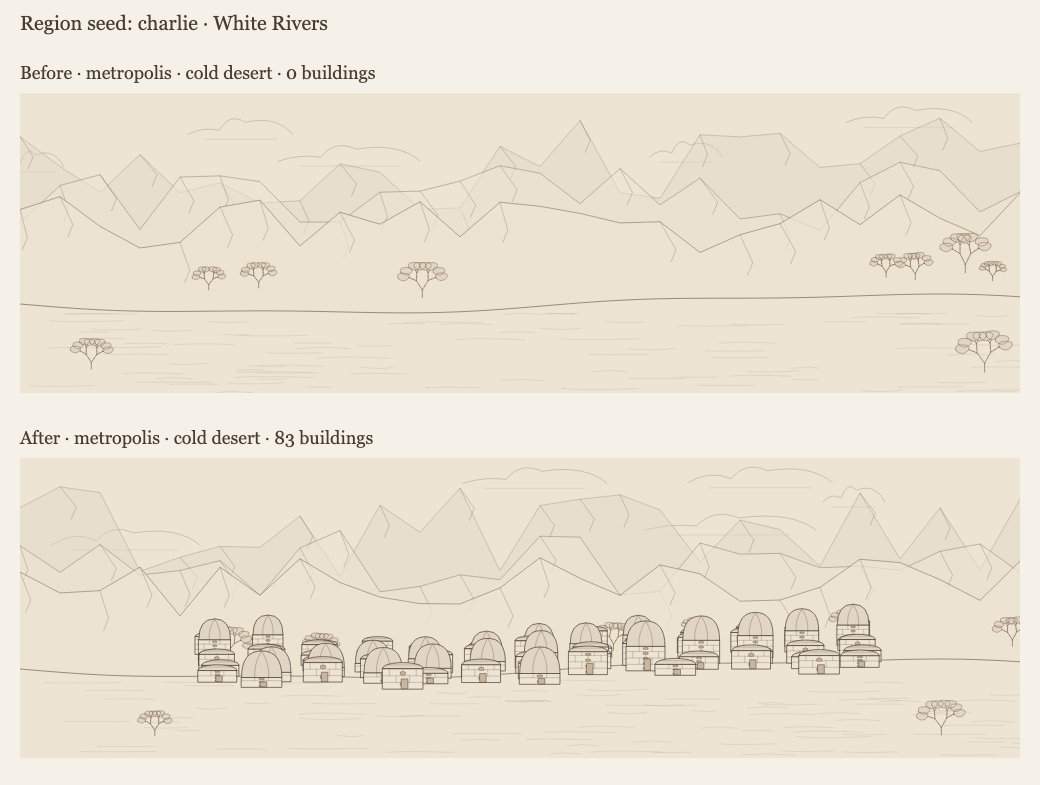
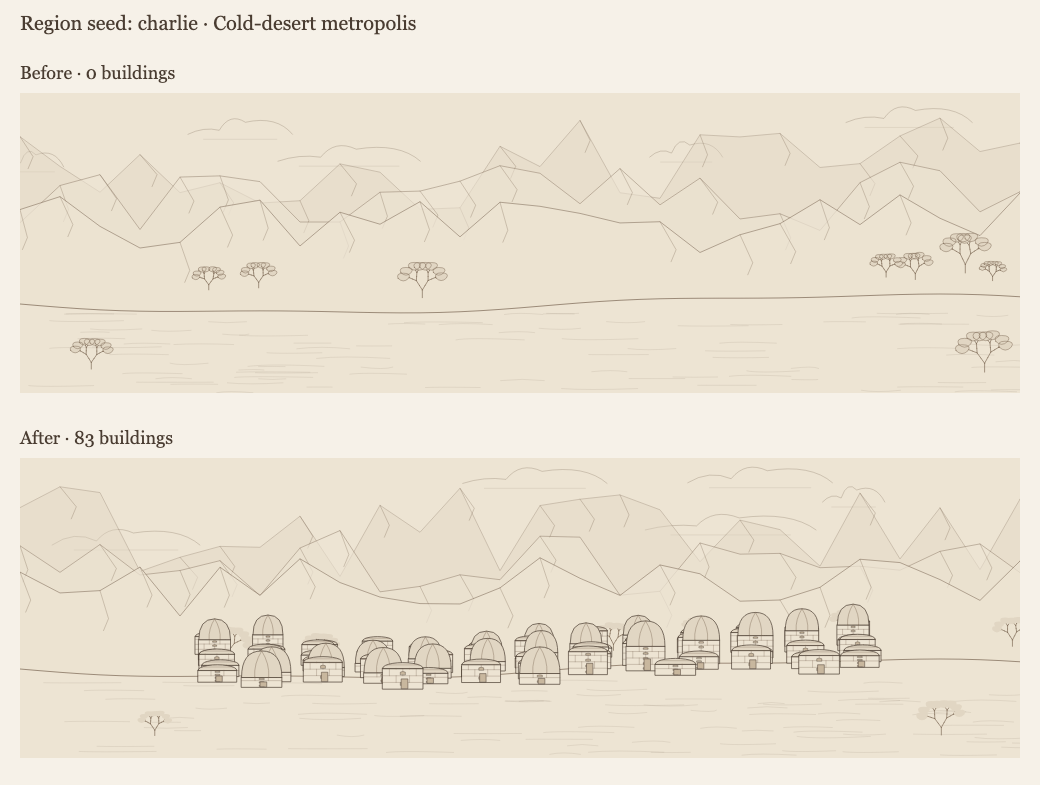
Use flat shading for settlement leaf clusters

diff --git a/src/lib/settlement_illustration/plants.ts b/src/lib/settlement_illustration/plants.ts
@@ -79,6 +79,6 @@ export function drawPlant(placement: PlantPlacement, rng: RNG): ScenePath[] {
   }
   return [
     path(d, 'none', 'secondary', placement.kind === 'cactus' ? placement.scale * 2 : 0.65),
-    ...(leaves ? [path(leaves, 'light', 'secondary', 0.45)] : []),
+    ...(leaves ? [path(leaves, 'light', 'none', 0)] : []),
   ];
 }

diff --git a/docs/regional-construction-review/README.md b/docs/regional-construction-review/README.md
@@ -3,13 +3,22 @@
 These samples use the first embedded settlement from actual region generation, with default
 configuration and the indicated root seed. No curated architectural palette is supplied.
 The before snapshots were generated at `fd16a5b3`, before construction completion was added.
-The after images include the requested side-on building elevations.
+The after images include the requested side-on building elevations and flat-shaded leaf clusters.
+
+## Leaf clusters
+
+The same `alpha` settlement before and after removing leaf-cluster outlines. Only leaf shading changes;
+trunks, branches, buildings and landscape line work remain. The lined reference was rendered at
+`7141ad4a`; run the review script at that commit and the current commit to compare.
+
+![Seed alpha: outlined leaf clusters changed to flat shading](foliage-comparison.png)
 
 ## Building projection
 
 The same completed `alpha` settlement is shown before and after the art-direction clarification.
 The buildings now have a single wall face and roof silhouette, without receding side walls or roof
-planes. The architecture, building placements and landscape are identical. The isometric reference
+planes. The architecture, building placements and landscape geometry are identical; the final sample
+also includes the flat-shaded foliage. The isometric reference
 was rendered at `40ee39d0`; run the review script at that commit and the current commit to compare.
 
 ![Seed alpha: isometric projection changed to side-on elevations](projection-comparison.png)
@@ -34,7 +43,9 @@ Run `npx vite-node scripts/render_region_construction_review.ts --seed alpha --o
 to render the current generated region's first settlement. Add `--before /path/to/alpha.json` to
 compare it with a serialized `rollRegionSnapshot('alpha')` captured from the baseline commit.
 Repeat with `charlie`. The script emits standalone SVGs and a comparison sheet; the checked-in PNGs
-are Chromium screenshots of those sheets at 1040 × 785, device scale 1.
+are Chromium screenshots of comparison sheets at 1040 × 785, device scale 1. For rendering changes,
+use the standalone SVG captured at each indicated baseline commit as the before panel, so the old
+renderer is represented faithfully rather than redrawing the baseline snapshot with the new renderer.
 
 The four original problem seeds (`alpha`, `bravo`, `charlie`, `architecture-materials`) improved
 from 2/28 to 28/28 settlements with drawable examples. The two previously complete styles remain

diff --git a/docs/settlement-panoramas.md b/docs/settlement-panoramas.md
@@ -21,6 +21,7 @@ prepainted building sprites, AI image service, or remote assets supply the scene
 **Art direction clarification (November 2, 2026):** Buildings use side-on elevations, not isometric
 projection. Draw one wall face and a roof silhouette, with no extruded side walls or receding roof
 planes. Keep saved architectural forms, proportions, materials and openings in the elevation.
+Leaf clusters use flat shading without contour strokes; retain line work on trunks and branches.
 
 This proposal does not change persisted settlement or architecture schemas. Exports, vault editors,
 and the region map itself are outside this issue. Landscape and weather are illustrative compositions,

diff --git a/src/lib/settlement_illustration/README.md b/src/lib/settlement_illustration/README.md
@@ -5,6 +5,7 @@ views use the same 1000 × 300 scene. Sky, ridges, ground, vegetation and buildi
 procedural; forests use bounded stochastic L-systems. No external assets or rendering service.
 Buildings are side-on elevations: a single wall face and roof silhouette, with no isometric side
 walls or receding roof planes. Saved roof forms, pitch, eaves, materials and openings remain visible.
+Leaf clusters use flat shading without outlines; trunks, branches and other vegetation retain line work.
 
 `buildSettlementPanorama(input)` owns a local seeded RNG. Helpers share that instance;
 `renderSettlementPanorama(scene)` only serializes. Category population bounds come from the supplied
